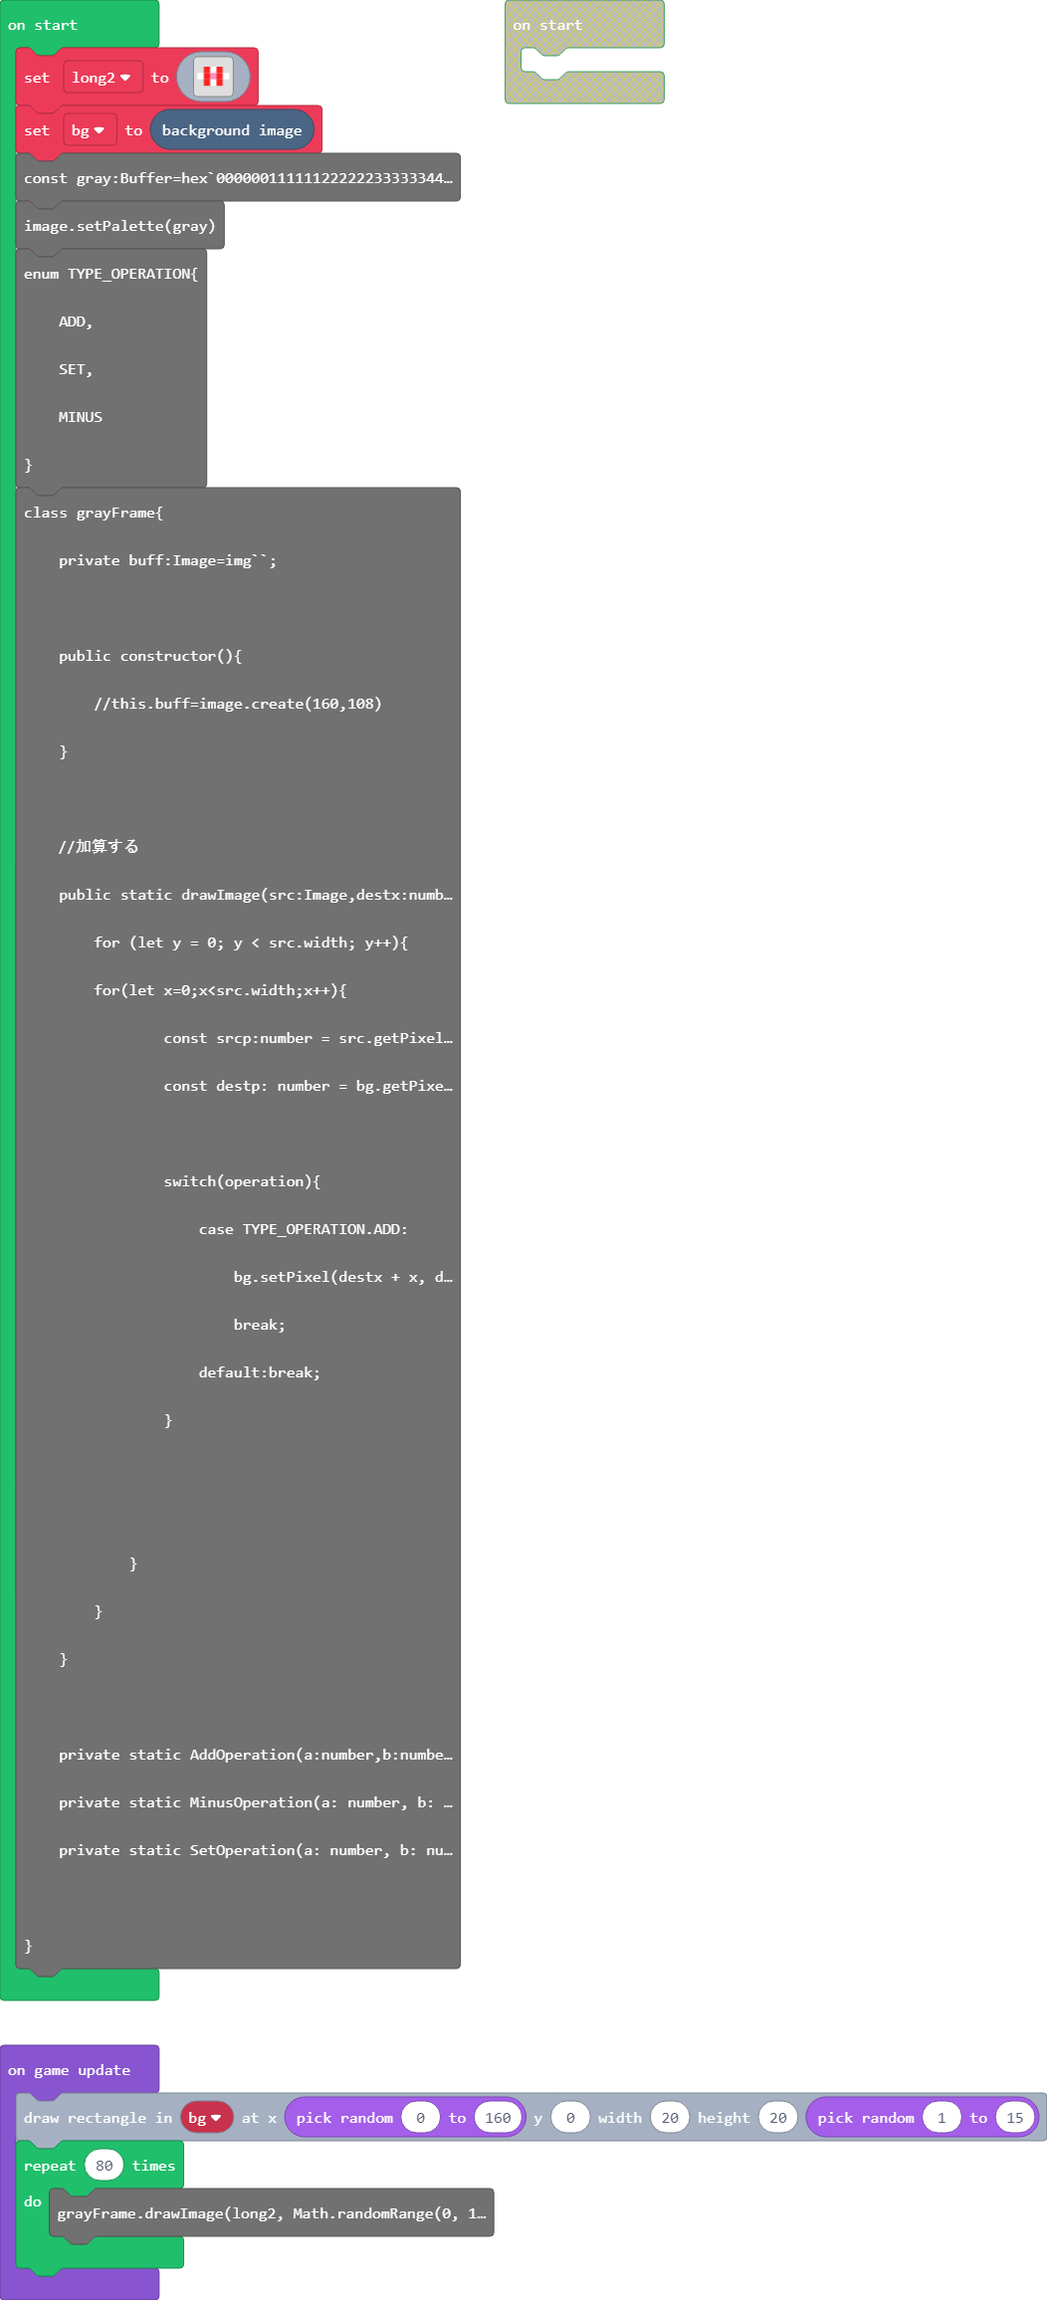
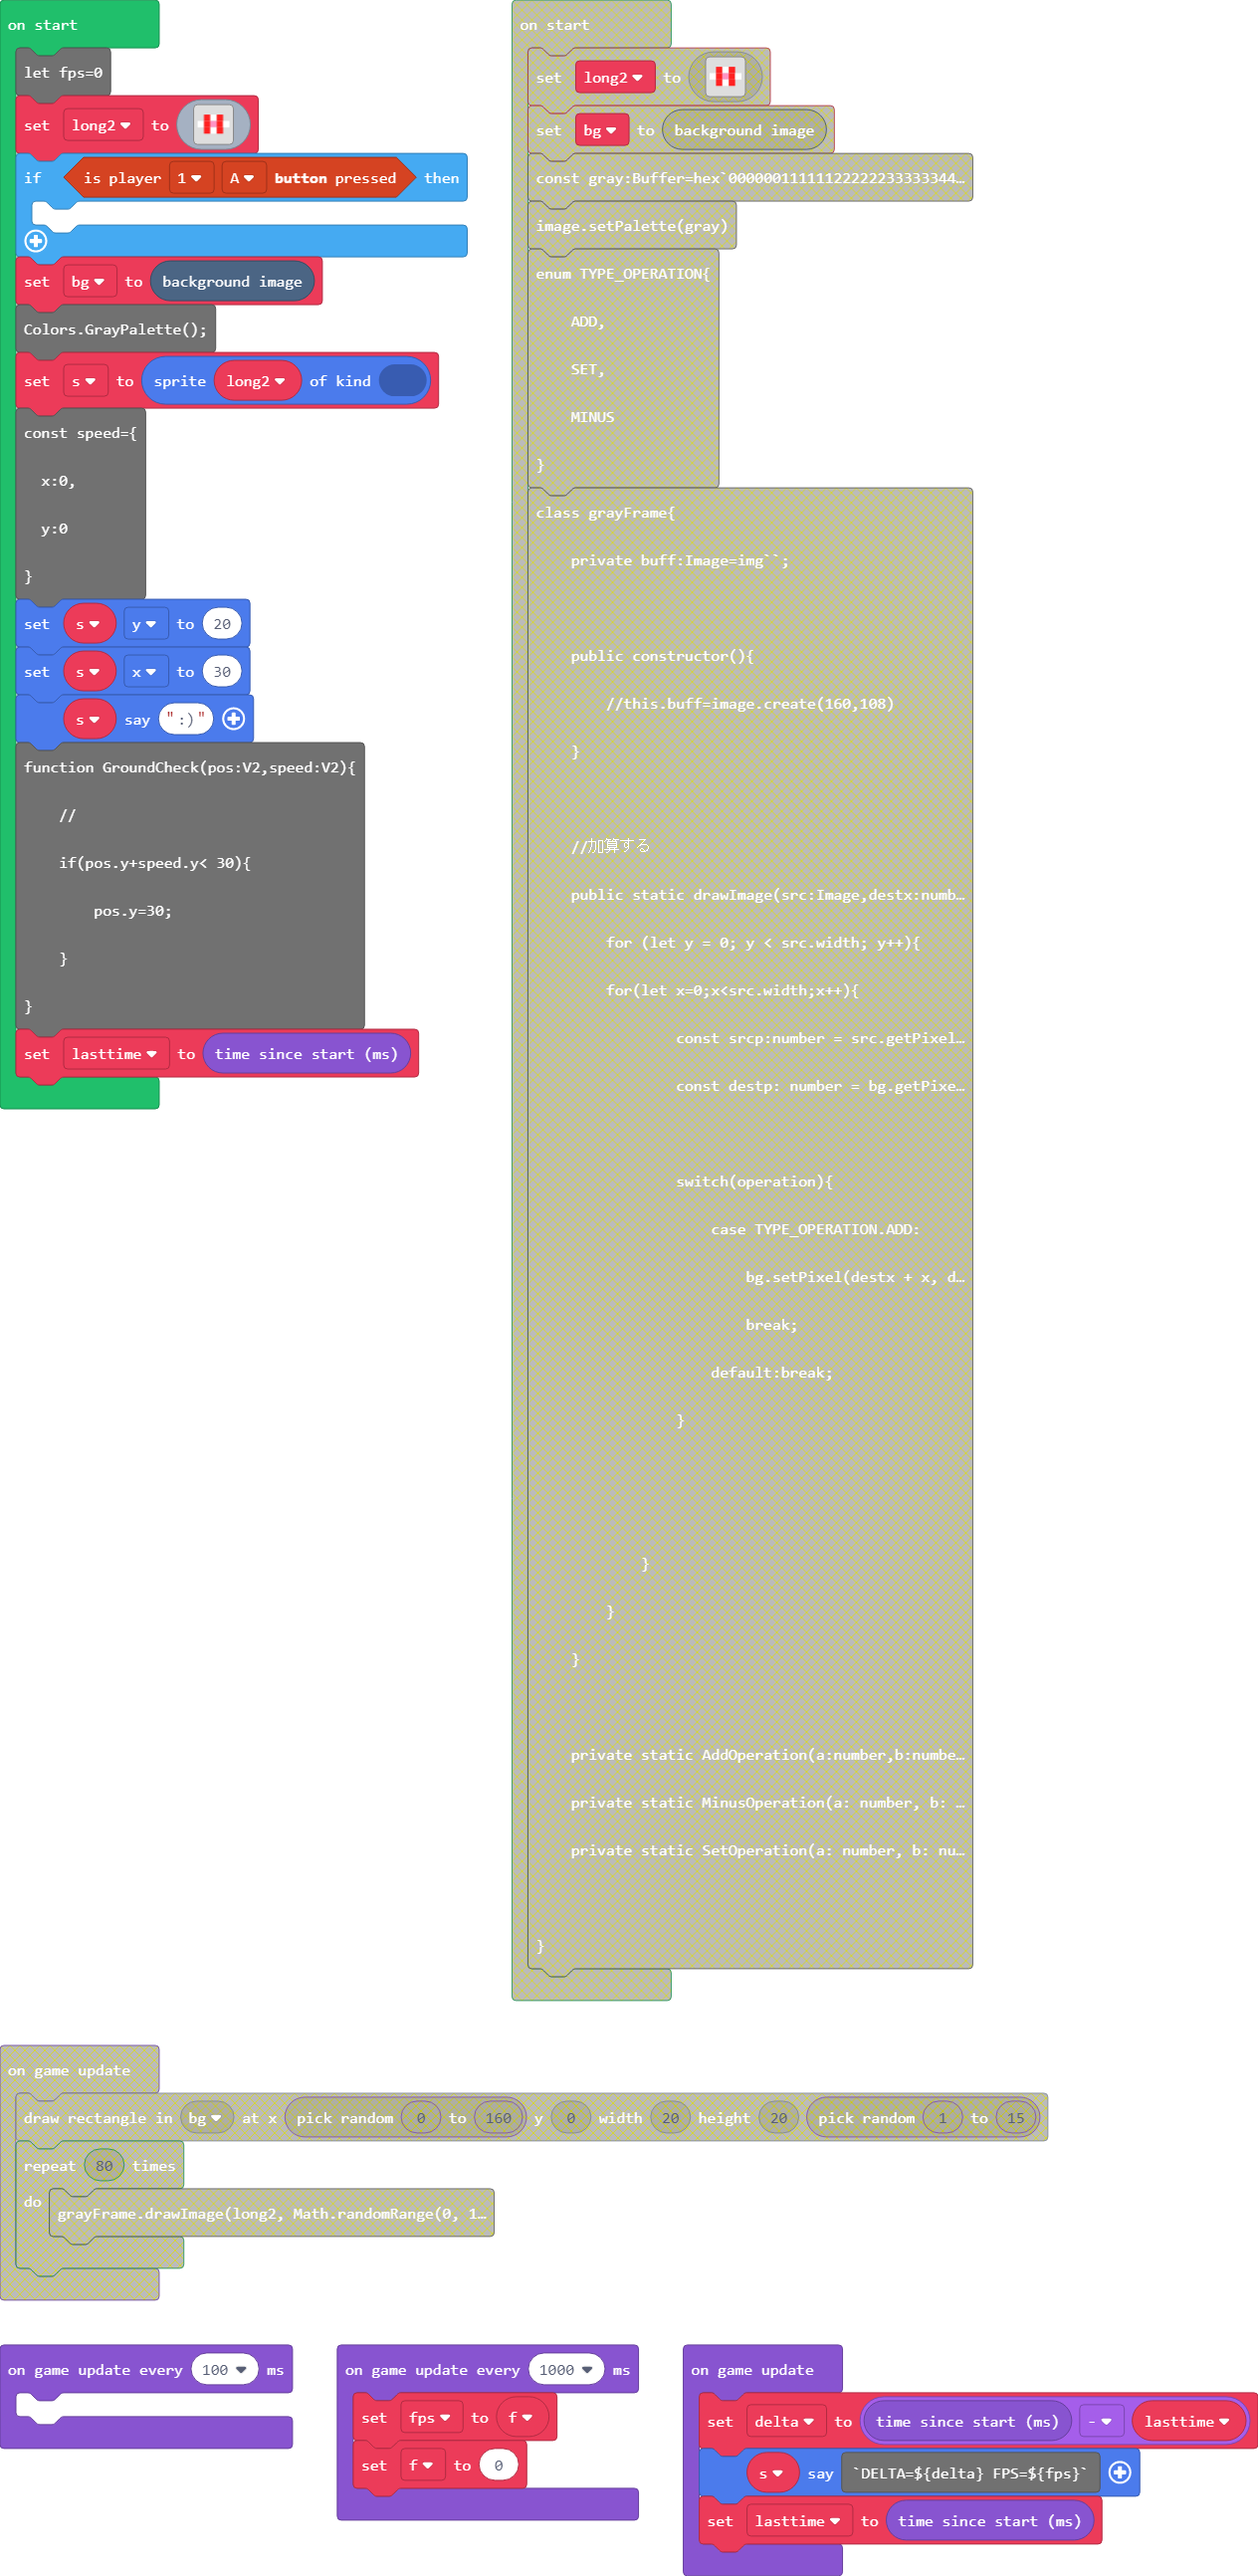
Update pxt.json, main.blocks, main.ts, Classes.ts, Control.ts, Component.ts

diff --git a/main.ts b/main.ts
@@ -1,29 +1,128 @@
+let f = 0
+let delta = 0
+let fps=0
 let long2 = img`
     . 2 1 2 .
     1 2 3 2 1
     . 2 1 2 .
-`;
+`
+class Speed implements V2{
 
+  public x:number=0;
+  public y:number=0;
 
-let bg:Image = scene.backgroundImage()
-Colors.GrayPalette();
-const s:Sprite=sprites.create(long2);
+  public constructor(){
 
-const speed={
-  x:0,
-  y:0
+  }
+
+  public Add(p:V2){
+      //yをクランプ
+      this.y = Math.clamp(-200,500, this.y + p.y);
+      this.x = Math.clamp(-100, 100, this.x + p.x);
+  }
 }
-s.y=0;
-s.x=30;
+
+class obj{
+    public get X():number{  return this.pos.x >> 10;};
+    public get Y(): number{ return this.pos.y >> 10; };
+
+    public pos:V2={x:0,y:0};
+    public speed:Speed=new Speed();
+    public graund:boolean=true;
+    public constructor(){
+    }
+    public update(delta:number){
+        const accel: V2 = { x: 0, y: 0 };
+        
+        //落下
+        if (!character.graund) {
+            accel.y -= 10;
+        }
+
+
+        if (controller.player1.isPressed(ControllerButton.Left)){
+            accel.x+=-49;
+        }
+        if (controller.player1.isPressed(ControllerButton.Right)) accel.x += 49;
+        if (controller.player1.isPressed(ControllerButton.Up)){
+            if(!character.graund){
+                accel.y += 9;
+            }
+            
+        }
+        if (controller.player1.isPressed(ControllerButton.Down))accel.y-=49;
+        
+        if (controller.player1.isPressed(ControllerButton.A)) {
+            if (character.graund) {
+                accel.y += 450;
+                character.graund = false;
+            }
+        }
+
+        //摩擦
+        if(character.graund){
+            character.speed.x*=0.9;
+        }
+        //デルタ
+        character.speed.Add(accel);
+
+        if (!this.graund) {
+            //着地判定
+            if (this.pos.y + (this.speed.y * delta) <= 0) {
+                this.graund = true;
+            }
+        } else {
+            //離陸判定
+            if (0 < this.pos.y + (this.speed.y * delta)) {
+                this.graund = false;
+            }
+        }
+
+        this.pos.x = Math.clamp(0, 160 << 10, this.pos.x + (this.speed.x * delta));
+        this.pos.y = Math.clamp(0, 240 << 10, this.pos.y + (this.speed.y * delta));
+
+    }
+}
+let character:obj=new obj();
+
+let bg = scene.backgroundImage()
+Colors.GrayPalette();
+let s = sprites.create(long2, 0)
+const speed = {
+    x: 0,
+    y: 0
+}
+
+s.y = character.pos.x
+s.x = character.pos.x
 s.say(":)")
 
-game.onUpdate(function () {
-    s.x+=speed.x;
-    s.y+= speed.y;
-    speed.y+=0.1/60.0;
-    for (let index = 0; index < 80; index++) {
-        Gray.drawImage(long2, Math.randomRange(0, 160), Math.randomRange(0, 120))
+function deltaUpdate(delta:number,func:(d:number)=>void){
+    func(delta);
+}
+
+function GroundCheck(pos:V2,speed:V2){
+    //
+    if(pos.y+speed.y< 30){
+        pos.y=30;
     }
+}
+let lasttime = game.runtime()
+game.onUpdateInterval(1000, function () {
+    fps = f
+    f = 0
+    console.log(`POS[${character.X}:${character.Y}] SPEED[${character.speed.x}:${character.speed.y}]`);
 })
 
-
+game.onUpdate(function () {
+    delta = (game.runtime() - lasttime);
+    
+    //s.say(`DELTA=${delta} FPS=${fps} POS[${character.pos.x},${character.pos.y}]`)
+    //s.say(`[${character.pos.x},${character.pos.y}][${character.speed.x},${character.speed.y}]`)
+    lasttime = game.runtime()
+    s.x=character.X;
+    s.y=120-character.Y;
+    character.update(delta);
+    
+})
+//measure

diff --git a/Component.ts b/Component.ts
@@ -1,0 +1,40 @@
+namespace Component{
+    export interface ComponentInterface{
+        owner: Obj;
+    }
+
+    export const enum TYPE_COMPONENT{
+        SPRITE,
+        RIGIDBODY
+    }
+}
+
+
+abstract class Component {
+    public owner: Obj;
+    public static ComponentId():number{return 0;};
+}
+
+class SpriteComponent extends Component {
+    public static ComponentId(){return 2;}
+}
+
+class RigidBodyComponent extends Component {
+    public static ComponentId() { return 3; }
+}
+
+
+class Obj {
+    public getComponent<T>() {
+
+    }
+    public addComponent(c: Component) {
+        c.owner = this;
+    }
+}
+
+const ComponentCache: {
+    [id:number]: Component[]
+} = {
+
+};

diff --git a/Classes.ts b/Classes.ts
@@ -1,4 +1,8 @@
-// Add your code here
+interface V2{
+    x: number,
+    y: number,
+}
+
 interface V3{
     x:number,
     y:number,
@@ -9,31 +13,8 @@ interface Transform{
     rotation(): V3;
 }
 
-
-abstract class Component{
-    public owner:Obj;
-}
-
-class SpriteComponent extends Component{
-
-}
-
-class RigidBodyComponent extends Component{
-
+function updateDelta(delta:number,func:(d:number)=>void){
+    func(delta);
 }
 
 
-class Obj{
-    public getComponent<T>() {
-
-    }
-    public addComponent(c:Component){
-        c.owner=this;
-    }
-}
-
-const Components:{
-    [key:string]:string
-}={
-
-};

diff --git a/Control.ts b/Control.ts
@@ -1,0 +1,1 @@
+// Add your code here
